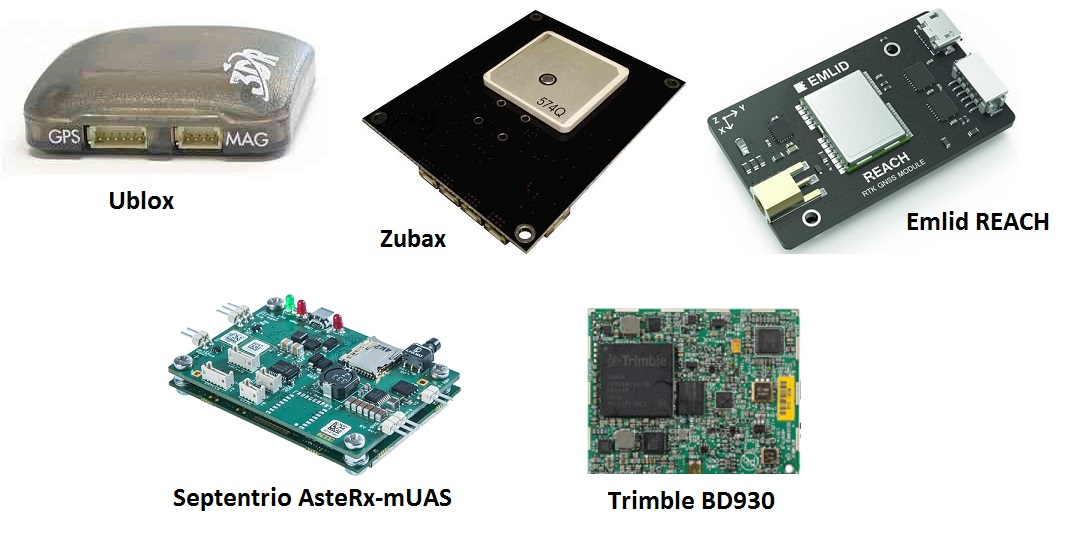
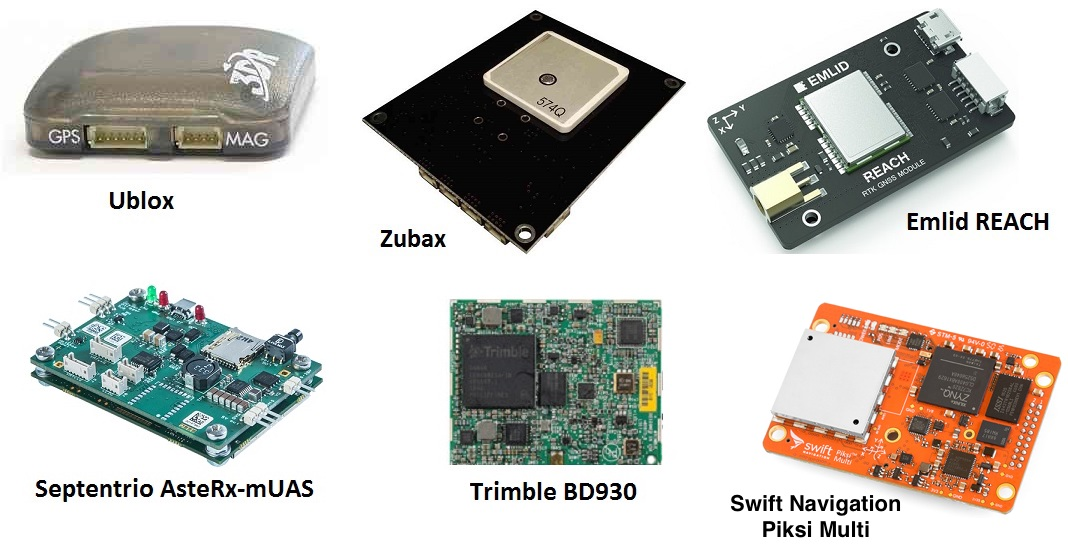
Common: Adding Piksi Multi GPS section

Changed region(s): [[0.0309, 0.5245, 1.0, 0.9873]]

diff --git a/common/source/docs/common-piksi-multi-rtk-receiver.rst b/common/source/docs/common-piksi-multi-rtk-receiver.rst
@@ -1,0 +1,36 @@
+.. _common-piksi-multi-rtk-receiver:
+
+============================
+Swift Navigaton's Piksi Multi RTK GPS Receiver
+============================
+
+This article provides a brief overview of Piksi Multi multi-band multi-constellation RTK GPS receiver. 
+
+.. image:: ../../../images/PiksiMulti.jpg
+	:target: ../_images/PiksiMulti.jpg
+
+.. note::
+
+     Piksi Multi RTK GPS is supported in Copter-3.5 (and higher), Plane 3.8.0 (and higher) and Rover 3.0.1 (and higher)
+
+.. note::
+
+     The previous offering from Swift Navigation, Piksi v2, is still supported by ArduPilot. That being said, Swift has announced the end-of-life of that receiver, and new units are no longer available. `Deprecated integration documentation for Piksi v2 is available here <http://docs.swiftnav.com/wiki/Integrating_Piksi_with_the_Pixhawk_platform>`__.
+
+What is Piksi Multi?
+====================
+
+Piksi Multi the first affordable multi-band multi-constellation RTK GPS unit. Not only does it provide centimeter-accurate positioning similar to other RTK GPS units, it additionally provides RTK lock times on the order of seconds. In comparison, single-frequency RTK GPS receivers require several minutes to aquire or reaquire an RTK FIX.
+
+What is RTK GPS and why does multi-frequency matter?
+=================================================
+
+Real-time Kinematic GPS is a signal processing technique that improves the accuracy of a GPS receiver by removing sources of error through comparison with a second GPS receiver. Real-time kinematic (RTK) GPS exploits information about the GPS carrier wave to improve the accuracy of position estimates. RTK GPS compares the phase of the received carrier wave between two GPS receivers to derive an accurate vector between a stationary base station GPS and moving rover GPS. Note the requirement for two GPS receivers, in comparison to conventional GPS positioning that requires only a single receiver. This approach can provide centimeter-accurate positioning with millisecond latencies.
+
+However, RTK GPS can only calculate centimeter-accurate positions once an integer ambiguity is resolved. For single-frequency receivers, ambiguity resolution algorithms have runtimes on the order of minutes. Multi-frequency receivers can additionally exploit information contained in the difference between the two frequencies. This insight allows Piksi Multi and other multi-frequency receivers to achieve RTK fixes in seconds.
+
+ArduPilot integration
+=====================
+
+See the `ArduPilot Integration Guide for Piksi Multi <https://support.swiftnav.com/customer/portal/articles/2803651-piksi-multi-ardupilot-integration-guide>`__ supplied by Swift Navigation.
+

diff --git a/common/source/docs/common-positioning-landing-page.rst b/common/source/docs/common-positioning-landing-page.rst
@@ -17,6 +17,7 @@ positioning technologies:
     Mayan Robotics M8N Gps+Compass Module <https://store.mrobotics.io/mRo-GPS-u-Blox-Neo-M8N-HMC5983-Compass-p/gps002-mr.htm>
     JDrones GPS Options <http://store.jdrones.com/GPS_s/193.htm>
     Zubax GNSS: GPS, Compass, Barometer <common-zubax-gnss-positioning-module-gps-compass-and-barometer>
+    Swift Navigation's Piksi Multi RTK GPS Receiver <common-piksi-multi-rtk-receiver>
     Emlid Reach RTK Receiver <common-reach-rtk-receiver>
     Here+ RTK Receiver <common-here-plus-gps>
     Septentrio AsteRx-mUAS RTK GPS <common-gps-septentrio>
